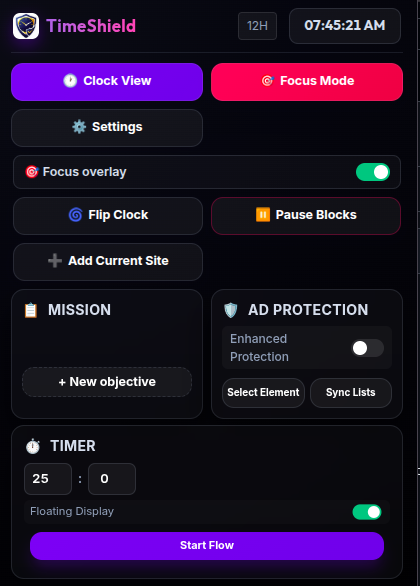
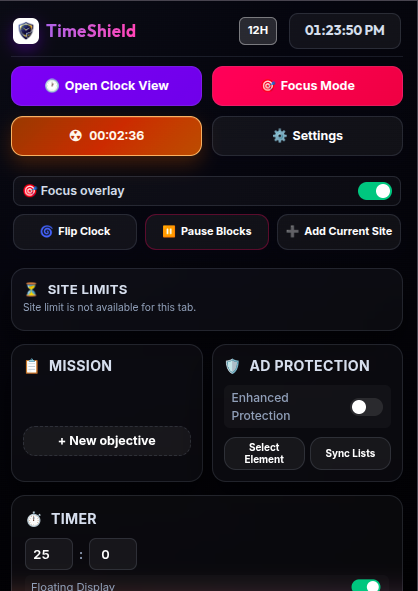
Refresh the control center screenshot

diff --git a/README.md b/README.md
@@ -55,7 +55,7 @@ The control panel brings the main actions together in one compact view. It shows
 
 ### Control Center
 
-![TimeShield Control Panel](assets/screenshots/control-panel.png)
+![TimeShield Control Center with Nuclear Mode](assets/screenshots/control-panel.png)
 
 ### General Settings
 
